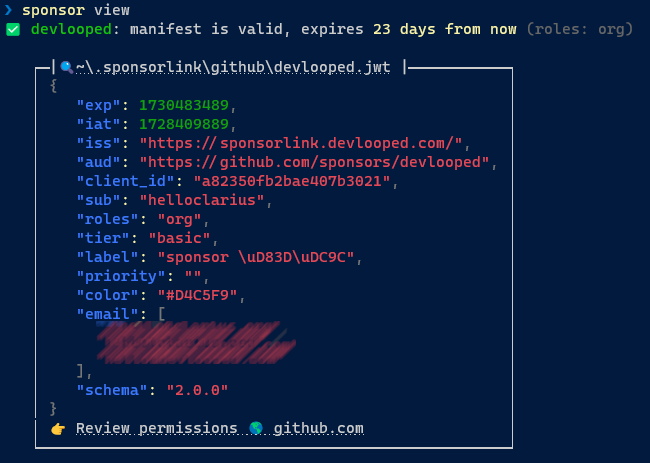
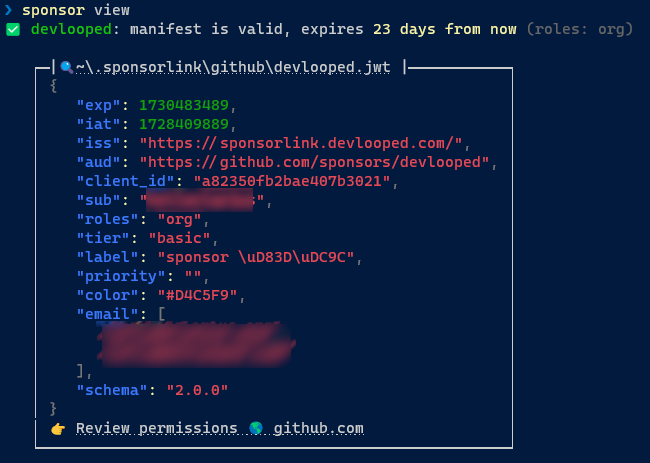
Add some more screenshots

Changed region(s): [[0.1538, 0.6955, 0.4615, 0.8164], [0.2154, 0.3931, 0.4, 0.4838]]

diff --git a/_posts/2024-10-08-sponsorlink2.md b/_posts/2024-10-08-sponsorlink2.md
@@ -54,6 +54,14 @@ This time around, things are much more conscientious in this regard:
 An explicit [privacy policy](https://www.devlooped.com/SponsorLink/privacy/) is 
 also provided, which is also shown in the CLI tool on first use.
 
+It sounds complicated, but it actually is pretty straightforward:
+
+```shell
+dotnet tool install -g dotnet-sponsor
+sponsor sync devlooped
+```
+
+> The same tool can be used by any other SponsorLink v2 self-hosted backend.
 
 ### Transparency
 
@@ -98,6 +106,30 @@ in order of precedence:
 
 Any combination of these roles can be present simultaneously.
 
+In addition, the sponsorship tiers can provide arbitrary metadata that is 
+then persisted in the manifest as JWT claims too. For example, I use the following 
+metadata in my sponsor tiers as a hidden HTML comment:
+
+```yml
+<!-- 
+tier: basic|silver|gold|platinum|bitcoin
+label: sponsor 💜
+priority: 
+color: '#D4C5F9'
+-->
+```
+
+The CLI will show the resulting JWT as follows for a sponsoring organization:
+
+![org sponsor](/img/sponsorlink-jwt.png)
+
+These claims can be checked by developer tooling (analyzers, MSBuild, etc.) to 
+selectively enable features, issue warnings and whatnot.
+
+The `label` and `color` claims are used to tag issues reported by sponsors, for example.
+I'm currently not using the tier for any particular feature toggle in any of my libraries, 
+but it's there if someone needs the functionality.
+
 ### Fellow OSS developers
 
 The last one (`oss`) can be opted-out by the self-hoster, but it's on for my organization. 
@@ -107,7 +139,7 @@ provide popular nuget packages (>200 downloads/day) are considered implicit spon
 I always thought it was a bit silly to ask fellow OSS developers to sponsor 
 me when I'm likely using their great libraries in turn. This fixes it for good, 
 so if you are an OSS developer (whether original author, regular or sporadic 
-contributor), you will never have to sponsor me unless you want to.
+contributor), you will never have to sponsor me, unless you want to 🫶.
 
 It was so important for me to recognize fellow OSS developers that I now 
 [scrap nuget.org](https://github.com/devlooped/nuget) downloads at the beginning 
@@ -131,10 +163,9 @@ from the [docs site](https://www.devlooped.com/SponsorLink/github/oss/)!
 
 It was also pointed out that it looked like sponsoring users didn't get any 
 benefits beyond removing annoyances. The most egregious annoyance was a one-time 
-(for the lifetime of the IDE) build pause.
-
-> As an OSS-luminary friend noted: if you're building Swift code, the build pause 
-> will go entirely unnoticed since the build already takes forever 😂
+(for the lifetime of the IDE) build pause. As an OSS-luminary friend noted: if 
+you're building Swift code, the build pause will go entirely unnoticed since 
+the build already takes forever 😂.
 
 The previous analyzer-based approach is now just a sample that libraries may 
 or may not adopt. If they do, it now involves a single solution-wide, IDE-only,
@@ -165,6 +196,21 @@ needed.
 All these benefits can be trivially leveraged by other libraries that self-host 
 the backend and configure it for their own sponsor account. This is documented 
 in the [GitHub Sponsors Reference Implementation](https://www.devlooped.com/SponsorLink/github/).
+
+I also feature active sponsors at the time of a package publishing in the 
+readme itself (see [ThisAssembly](https://www.nuget.org/packages/ThisAssembly#sponsors) for example).
+This involves fetching sponsor profile image, properly formatting it for display 
+on nuget.org (i.e. square for orgs, circles for users) and with an easy to use 
+[markdown inclusion](https://www.cazzulino.com/pack-readme-includes.html) mechanism.
+You can explore the approach at [devlooped/sponsors](https://github.com/devlooped/sponsors/), 
+the results being something like the following in every package I publish:
+
+![devlooped sponsors readme footer](/img/sponsorlink-readme.png)
+
+![devlooped sponsors readme footer](/img/sponsorlink-readme-light.png)
+
+This is a nice recognition to the folks that make each release possible, although not 
+specifically tied to SponsorLink.
 
 ## The Future
 
@@ -218,12 +264,13 @@ If you are a .NET/C# OSS developer, just pause and think about it: there's only
 
 ![OSS NuGet Authors](https://img.shields.io/badge/dynamic/json?url=https%3A%2F%2Fgithub.com%2Fdevlooped%2Fnuget%2Fraw%2Frefs%2Fheads%2Fmain%2Fnuget.json&query=%24.summary.authors&style=social&logo=nuget&label=OSS%20NuGet%20Authors)
 
-SponsorLink is not about making money from the community, it's about making 
-money from the companies and users that benefit from our work. It's an exploration 
-of a different way to monetize OSS, which might arguably fail, but perhaps 
-it will also succeed. And if it does, it's open for any of those ~35k authors 
-to jump in too.
+SponsorLink is not about making money from the community, but from the companies 
+and users that benefit from our work. It's an exploration of a different way to 
+monetize OSS, which might arguably fail, but perhaps it will also succeed. And 
+if it does, it's open for any of those ~35k authors to jump in too.
 
 I'd love to get your feedback on this new approach. Please explore the 
 [SponsorLink docs](https://www.devlooped.com/SponsorLink/) and let me know 
 in the [GitHub repo](https://github.com/devlooped/SponsorLink/issues/100)
+
+Happy coding!
